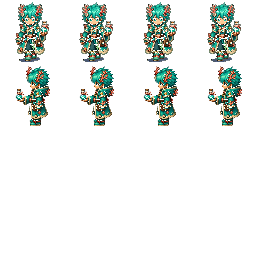
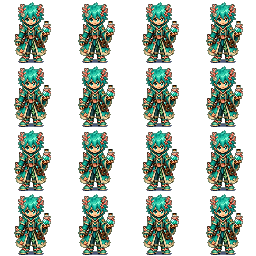
add walk features to coral alchemist character

diff --git a/apps/web/src/game/TownScene.ts b/apps/web/src/game/TownScene.ts
@@ -107,8 +107,9 @@ const stormArcherEightDirectionWalkPath = "/assets/soltower/heroes/storm-archer/
 const tideMageEightDirectionWalkPath = "/assets/soltower/heroes/tide-mage/walk-8dir.png?v=video-all-directions";
 const bombardierIdlePath = "/assets/soltower/heroes/bombardier/idle.png?v=walk-bottom-idle";
 const bombardierEightDirectionWalkPath = "/assets/soltower/heroes/bombardier/walk-8dir.png?v=video-all-directions";
+const coralAlchemistIdlePath = "/assets/soltower/heroes/coral-alchemist/idle.png?v=coral-walk-bottom-idle-20260709";
 const coralAlchemistEightDirectionWalkPath =
-  "/assets/soltower/heroes/coral-alchemist/walk-8dir.png?v=coral-video-bottom-20260707";
+  "/assets/soltower/heroes/coral-alchemist/walk-8dir.png?v=coral-video-all-directions-20260709";
 const starcallerEightDirectionWalkPath =
   "/assets/soltower/heroes/starcaller/walk-8dir.png?v=starcaller-video-all-directions-20260707";
 const eightDirectionWalkPaths: Partial<Record<HeroId, string>> = {
@@ -1542,6 +1543,7 @@ function heroSpriteKey(heroId: HeroId | "fallback", action: HeroAnimationName): 
 function heroWorldSheetPath(heroId: HeroId, action: HeroAnimationName, defaultPath: string): string {
   if (heroId === "storm-archer" && action === "idle") return stormArcherIdlePath;
   if (heroId === "bombardier" && action === "idle") return bombardierIdlePath;
+  if (heroId === "coral-alchemist" && action === "idle") return coralAlchemistIdlePath;
   if (action === "walk") return eightDirectionWalkPaths[heroId] ?? defaultPath;
   return defaultPath;
 }

diff --git a/apps/web/src/game/town-scene.test.ts b/apps/web/src/game/town-scene.test.ts
@@ -142,6 +142,7 @@ describe("authenticated town scene UX", () => {
     expect(scene).toContain("stormArcherEightDirectionWalkPath");
     expect(scene).toContain("tideMageEightDirectionWalkPath");
     expect(scene).toContain("bombardierEightDirectionWalkPath");
+    expect(scene).toContain("coralAlchemistIdlePath");
     expect(scene).toContain("coralAlchemistEightDirectionWalkPath");
     expect(scene).toContain("eightDirectionWalkRows[eightFacing]");
     expect(scene).toContain("/assets/soltower/heroes/shared/fallback-${action}.png");

diff --git a/apps/web/src/components/panels/RaidBattleOverlay.tsx b/apps/web/src/components/panels/RaidBattleOverlay.tsx
@@ -324,7 +324,7 @@ function raidHeroSpriteLayout(heroId: HeroId, facing: "left" | "right" | "up" | 
     "storm-archer": "video-all-directions",
     "tide-mage": "video-all-directions",
     bombardier: "video-all-directions",
-    "coral-alchemist": "coral-video-bottom-20260707",
+    "coral-alchemist": "coral-video-all-directions-20260709",
     starcaller: "starcaller-video-all-directions-20260707"
   };
   const spriteVersion = eightDirectionSpriteVersions[heroId];

diff --git a/apps/web/src/components/WalletOnboardingModal.tsx b/apps/web/src/components/WalletOnboardingModal.tsx
@@ -779,7 +779,7 @@ function heroPreviewSpriteLayout(heroId: HeroId): SpritePreviewLayout {
     "storm-archer": "video-all-directions",
     "tide-mage": "video-all-directions",
     bombardier: "video-all-directions",
-    "coral-alchemist": "coral-video-bottom-20260707",
+    "coral-alchemist": "coral-video-all-directions-20260709",
     starcaller: "starcaller-video-all-directions-20260707"
   };
   const spriteVersion = eightDirectionSpriteVersions[heroId];

diff --git a/docs/HERO_ART_BIBLE.md b/docs/HERO_ART_BIBLE.md
@@ -1,6 +1,6 @@
 # Hero Art Bible
 
-Updated: 2026-06-29
+Updated: 2026-07-09
 
 SolTower now has a first local Hero character asset pass. These assets are original generated pixel-art PNG files stored in the repository; no downloaded spritesheets, third-party asset packs, copied game art, or baked UI text are used.
 
@@ -69,16 +69,17 @@ Shared fallback files:
 - `apps/web/public/assets/soltower/heroes/shared/fallback-run.png`
 - `apps/web/public/assets/soltower/heroes/shared/fallback-attack.png`
 
-Standalone Storm Archer 8-direction walking sheet:
+Standalone 8-direction walking sheets:
 
 - `apps/web/public/assets/soltower/heroes/storm-archer/walk-8dir.png`
+- `apps/web/public/assets/soltower/heroes/coral-alchemist/walk-8dir.png`
 - Sheet size: 256x512.
 - Frame size: 64x64.
 - Layout: 8 rows x 4 columns.
 - Row order: top-left, left, bottom-left, top, top-right, right, bottom-right, bottom.
 - Columns: four walking frames.
 - Background: transparent PNG.
-- Current video-backed rows: all eight directions are extracted from MP4 sources, keyed from black to transparent, and normalized into four 64x64 frames each.
+- Current video-backed rows: all eight directions are extracted from each Hero folder's `walk-*.mp4` sources, keyed from black to transparent, and normalized into four 64x64 frames each.
 
 ## Sprite Sheet Contract
 
@@ -96,6 +97,8 @@ Town sheets are consistent across all five Heroes:
 The current Phaser town scale is tuned for the existing player collision and camera framing. Future Hero sprites must keep this exact 64x64/action-sheet contract unless `heroAssetManifest`, `TownScene`, documentation, and asset tests are updated together.
 
 Storm Archer `idle.png` is generated from the four reference PNGs listed above. It uses the standard 4-row world sheet layout: down, left, right, up. Each row currently repeats the same normalized idle reference across all four animation columns.
+
+Coral Alchemist `idle.png` is generated from `apps/web/public/assets/soltower/heroes/coral-alchemist/walk-bottom.png`. Every row repeats the normalized bottom-facing pose so Coral stays bottom-facing whenever idle or not moving.
 
 ## Hero Silhouettes
 

diff --git a/docs/BUILD_STATUS.md b/docs/BUILD_STATUS.md
@@ -1,6 +1,19 @@
 # Build Status
 
-Updated: 2026-07-05
+Updated: 2026-07-09
+
+## Coral Alchemist 8-Direction Walk Sheet
+
+- Regenerated `apps/web/public/assets/soltower/heroes/coral-alchemist/walk-8dir.png` from the eight Coral Alchemist walk MP4 sources.
+  - Size: 256x512.
+  - Frames: 64x64.
+  - Layout: 8 direction rows x 4 walking columns.
+  - Row order: top-left, left, bottom-left, top, top-right, right, bottom-right, bottom.
+  - Generator: `scripts/generate-hero-8-direction-walk-from-videos.mjs coral-alchemist`.
+- Town movement, onboarding preview, and raid overlay cache keys now point at the all-direction Coral sheet.
+- Regenerated `apps/web/public/assets/soltower/heroes/coral-alchemist/idle.png` from `walk-bottom.png` so Coral uses the bottom-facing pose whenever idle or not moving.
+  - Generator: `scripts/generate-storm-archer-idle-from-refs.mjs coral-alchemist`.
+  - Town runtime cache key: `coral-walk-bottom-idle-20260709`.
 
 ## Temporary TOWER Token Access Gates
 
